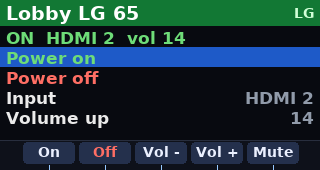
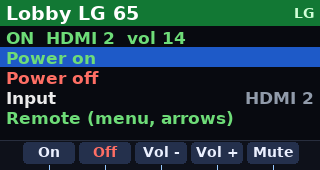
Display Control: TV remote screen (arrows, OK, Back, Home, Menu, Input, Exit)
LG via the webOS pointer input socket, Samsung remote keys, Sony IRCC
codes from getRemoteControllerInfo, Roku ECP keypresses.

Claude-Session: https://claude.ai/code/session_01GkgDxcWYarq6mnGrjPFuqJ

Changed region(s): [[0.0, 0.6471, 0.75, 0.7647], [0.9062, 0.6471, 1.0, 0.7353]]

diff --git a/display-control/tntdisp/app.py b/display-control/tntdisp/app.py
@@ -316,6 +316,8 @@ class DisplayScreen(List):
                ("Power off", lambda: app.do(d, "off", label="Power off"), "", L.BAD)]
         if "input" in caps:
             out.append(("Input", lambda: choose_input(app, d), lambda: str(st.get("input") or "")[:12]))
+        if "remote" in caps:
+            out.append(("Remote (menu, arrows)", lambda: app.push(RemoteScreen(app, d)), "", L.OK))
         if "volume" in caps:
             out.append(("Volume up", lambda: app.do(d, "vol", 1, "Volume up"),
                         lambda: "" if st.get("volume") is None else str(st["volume"])))
@@ -353,6 +355,77 @@ class DisplayScreen(List):
         if now > self.next_poll and self.d.id not in self.app.busy:
             self.next_poll = now + 10
             threading.Thread(target=self.app.poll, args=(self.d,), daemon=True).start()
+
+
+class RemoteScreen(Screen):
+    """The TV's remote: arrows (F/X/Z/C or the arrow keys), OK, and the menu
+    buttons on keys 4-8. Presses go out in order on one connection."""
+    help = ("Arrow keys or F X Z C move on the TV, OK selects. DEL is the TV's Back button. "
+            "4 Home, 5 Back, 6 Menu (TV settings), 7 Input list, 8 Exit. ESC leaves the remote; "
+            "hold ESC for HOME.")
+    LABEL = {"up": "↑", "down": "↓", "left": "←", "right": "→", "ok": "OK"}
+
+    def __init__(self, app, d: Display):
+        super().__init__(app)
+        self.title, self.d = f"Remote: {d.name}", d
+        self.drv = DRIVERS[d.kind](d)
+        self.q: list[str] = []
+        self.cv = threading.Condition()
+        self.alive = True
+        self.last = ("Ready", L.DIM)
+        threading.Thread(target=self._worker, daemon=True).start()
+
+    def _worker(self):
+        while True:
+            with self.cv:
+                while self.alive and not self.q:
+                    self.cv.wait()
+                if not self.alive:
+                    break
+                b = self.q.pop(0)
+            try:
+                with ops.lock(self.d):
+                    self.drv.remote(b)
+                self.last = (f"Sent {self.LABEL.get(b, b.capitalize())}", L.OK)
+            except (DisplayError, OSError, ValueError, KeyError) as e:
+                self.last = (str(e) or e.__class__.__name__, L.BAD)
+                with self.cv:
+                    self.q.clear()
+            self.app.dirty = True
+        if hasattr(self.drv, "close_remote"):
+            self.drv.close_remote()
+
+    def press(self, b: str):
+        with self.cv:
+            if len(self.q) < 8:
+                self.q.append(b)
+            self.cv.notify()
+        self.last = (f"{self.LABEL.get(b, b.capitalize())}...", L.WARN)
+
+    def right(self):
+        return KIND_SHORT.get(self.d.kind, "")
+
+    def rows(self):
+        return [self.last, ("F ↑   X ↓   Z ←   C →", L.FG),
+                ("OK select    DEL back", L.FG), ("ESC leaves the remote", L.DIM)], None
+
+    def softkeys(self):
+        return [("Home", lambda: self.press("home")), ("Back", lambda: self.press("back")),
+                ("Menu", lambda: self.press("menu")), ("Input", lambda: self.press("source")),
+                ("Exit", lambda: self.press("exit"))]
+
+    def key(self, k):
+        if k.name in ("up", "down", "left", "right"):
+            self.press(k.name)
+        elif k.name == "enter":
+            self.press("ok")
+        elif k.name == "backspace":
+            self.press("back")
+        elif k.name == "esc":
+            with self.cv:
+                self.alive = False
+                self.cv.notify()
+            self.app.pop(self)
 
 
 class Pick(List):

diff --git a/display-control/tests/test_basic.py b/display-control/tests/test_basic.py
@@ -220,6 +220,12 @@ class SonyRoku(unittest.TestCase):
         self.assertEqual(Handler.calls[-1][1], "/keypress/PowerOn")
         r.set_input("launch:tvinput.hdmi1")
         self.assertEqual(Handler.calls[-1][1], "/launch/tvinput.hdmi1")
+        r.remote("ok")
+        self.assertEqual(Handler.calls[-1][1], "/keypress/Select")
+        from tntdisp.base import REMOTE_BUTTONS
+        from tntdisp.samsung import Samsung
+        for drv in (Roku, Samsung, Sony, LGWebOS):
+            self.assertTrue(set(REMOTE_BUTTONS) <= set(drv.REMOTE), drv)
 
 
 # ---- fake LG webOS (plain WebSocket on port 3000 style) --------------------
@@ -255,7 +261,11 @@ def ws_server(handler):
             d = b""
             while len(d) < n:
                 d += c.recv(n - len(d))
-            return json.loads(bytes(b ^ m[i % 4] for i, b in enumerate(d)))
+            t = bytes(b ^ m[i % 4] for i, b in enumerate(d)).decode()
+            try:
+                return json.loads(t)
+            except ValueError:
+                return {"type": "raw", "text": t}
 
         def send(o):
             d = json.dumps(o).encode()
@@ -280,6 +290,8 @@ class LGTest(unittest.TestCase):
 
         def tv(m):
             seen.append(m)
+            if m["type"] == "raw":
+                return []
             if m["type"] == "register":
                 if m["payload"].get("client-key") == "goodkey":
                     return [{"type": "registered", "id": m["id"], "payload": {"client-key": "goodkey"}}]
@@ -292,6 +304,8 @@ class LGTest(unittest.TestCase):
                 pl.update(state="Active")
             if uri.endswith("getForegroundAppInfo"):
                 pl.update(appId="com.webos.app.hdmi2")
+            if uri.endswith("getPointerInputSocket"):
+                pl.update(socketPath=f"ws://127.0.0.1:{port}/resources/abc/netinput.pointer.sock")
             if uri.endswith("getExternalInputList"):
                 pl.update(devices=[{"id": "HDMI_1", "label": "HDMI 1"}, {"id": "HDMI_2", "label": "Laptop"}])
             return [{"type": "event", "id": "other", "payload": {}}, {"type": "response", "id": m["id"], "payload": pl}]
@@ -312,6 +326,13 @@ class LGTest(unittest.TestCase):
             self.assertEqual(lg.mute(), "Muted")
             self.assertEqual(seen[-1]["payload"], {"mute": True})
             self.assertEqual(lg.message("hi"), "Message shown")
+            lg.remote("down")
+            lg.remote("ok")
+            import time
+            time.sleep(0.3)
+            self.assertEqual([m["text"] for m in seen if m["type"] == "raw"],
+                             ["type:button\nname:DOWN\n\n", "type:button\nname:ENTER\n\n"])
+            lg.close_remote()
             lg.d.secret = "bad"
             with self.assertRaises(DisplayError):
                 lg.status()
@@ -372,7 +393,7 @@ class Misc(unittest.TestCase):
     def test_screens(self):
         from tntdisp.demo import render_screens
         files = render_screens(tempfile.mkdtemp())
-        self.assertEqual(len(files), 6)
+        self.assertEqual(len(files), 7)
 
 
 if __name__ == "__main__":

diff --git a/display-control/tntdisp/sony.py b/display-control/tntdisp/sony.py
@@ -17,7 +17,7 @@ from . import wol
 class Sony(Driver):
     kind = "sony"
     default_port = 80
-    caps = frozenset({"power", "input", "volume", "mute", "avmute", "picture", "info"})
+    caps = frozenset({"power", "input", "volume", "mute", "avmute", "picture", "info", "remote"})
 
     def rpc(self, service: str, method: str, params=None, version: str = "1.0"):
         body = json.dumps({"method": method, "id": 1, "params": [params] if params is not None else [],
@@ -119,6 +119,43 @@ class Sony(Driver):
     def set_picture(self, mode):
         self.rpc("video", "setPictureQualitySettings", {"settings": [{"target": "pictureMode", "value": mode}]})
         return f"Picture mode {mode}"
+
+    REMOTE = {"up": "Up", "down": "Down", "left": "Left", "right": "Right", "ok": "Confirm", "back": "Return",
+              "home": "Home", "menu": "ActionMenu", "exit": "Exit", "info": "Display", "source": "Input"}
+    FALLBACK = {"ActionMenu": "Options", "Confirm": "DpadCenter"}
+    _codes: dict = {}
+
+    def ircc_codes(self) -> dict:
+        key = self.d.host
+        if key not in Sony._codes:
+            res = self.rpc("system", "getRemoteControllerInfo")
+            lst = res[1] if isinstance(res, list) and len(res) > 1 else []
+            Sony._codes[key] = {c.get("name"): c.get("value") for c in lst if isinstance(c, dict)}
+        return Sony._codes[key]
+
+    def remote(self, button):
+        codes = self.ircc_codes()
+        name = self.REMOTE[button]
+        code = codes.get(name) or codes.get(self.FALLBACK.get(name, ""))
+        if not code:
+            raise DisplayError(f"TV has no {name} button over IP")
+        body = ('<?xml version="1.0"?><s:Envelope xmlns:s="http://schemas.xmlsoap.org/soap/envelope/" '
+                's:encodingStyle="http://schemas.xmlsoap.org/soap/encoding/"><s:Body>'
+                '<u:X_SendIRCC xmlns:u="urn:schemas-sony-com:service:IRCC:1"><IRCCCode>'
+                f'{code}</IRCCCode></u:X_SendIRCC></s:Body></s:Envelope>').encode()
+        req = urllib.request.Request(f"http://{self.d.host}:{self.port}/sony/IRCC", body, {
+            "Content-Type": 'text/xml; charset=UTF-8',
+            "SOAPACTION": '"urn:schemas-sony-com:service:IRCC:1#X_SendIRCC"'})
+        if self.d.secret:
+            req.add_header("X-Auth-PSK", self.d.secret)
+        try:
+            with urllib.request.urlopen(req, timeout=self.timeout) as r:
+                r.read()
+        except urllib.error.HTTPError as e:
+            raise DisplayError("Wrong or missing pre-shared key" if e.code in (401, 403) else f"TV error HTTP {e.code}")
+        except OSError as e:
+            raise DisplayError(f"No answer from {self.d.host} ({e.__class__.__name__})")
+        return button
 
     def info(self):
         out = super().info()

diff --git a/display-control/tntdisp/lgwebos.py b/display-control/tntdisp/lgwebos.py
@@ -36,7 +36,7 @@ class LGWebOS(Driver):
     kind = "lg"
     default_port = 3001
     needs_pairing = True
-    caps = frozenset({"power", "input", "volume", "mute", "avmute", "message", "info"})
+    caps = frozenset({"power", "input", "volume", "mute", "avmute", "message", "info", "remote"})
 
     def _connect(self, allow_prompt: bool = False, wait: float = 60.0) -> WebSocket:
         tls = self.port != 3000
@@ -189,6 +189,40 @@ class LGWebOS(Driver):
         uri = "turnOffScreen" if on else "turnOnScreen"
         self.call(f"ssap://com.webos.service.tvpower/power/{uri}", {"standbyMode": "active"})
         return "Screen off (TV still on)" if on else "Screen back on"
+
+    REMOTE = {"up": "UP", "down": "DOWN", "left": "LEFT", "right": "RIGHT", "ok": "ENTER", "back": "BACK",
+              "home": "HOME", "menu": "MENU", "exit": "EXIT", "info": "INFO", "source": "INPUT_HUB"}
+
+    def remote(self, button):
+        """Buttons go over the TV's pointer socket; it is kept open between
+        presses (see close_remote)."""
+        name = self.REMOTE[button]
+        for attempt in (0, 1):
+            ws = getattr(self, "_pointer", None)
+            if ws is None:
+                path = self.call("ssap://com.webos.service.networkinput/getPointerInputSocket").get("socketPath", "")
+                if "://" not in path:
+                    raise DisplayError("TV gave no remote socket")
+                tls = path.startswith("wss")
+                rest = path.split("://", 1)[1]
+                hostport, _, sub = rest.partition("/")
+                port = int(hostport.rsplit(":", 1)[1]) if ":" in hostport else (3001 if tls else 3000)
+                ws = WebSocket(self.d.host, port, "/" + sub, tls=tls, timeout=self.timeout)
+                self._pointer = ws
+            try:
+                ws.send(f"type:button\nname:{name}\n\n")
+                return button
+            except (DisplayError, OSError):
+                self.close_remote()
+                if attempt:
+                    raise DisplayError("TV remote connection lost")
+        return button
+
+    def close_remote(self):
+        ws = getattr(self, "_pointer", None)
+        self._pointer = None
+        if ws:
+            ws.close()
 
     def message(self, text):
         self.call("ssap://system.notifications/createToast", {"message": text[:60]})

diff --git a/display-control/tntdisp/base.py b/display-control/tntdisp/base.py
@@ -12,6 +12,7 @@ caps (what the UI offers for this display):
   picture  picture modes
   message  show a short message on the screen
   info     model, hours, errors ...
+  remote   menu navigation: up down left right ok back home menu exit info source
 """
 from __future__ import annotations
 
@@ -56,6 +57,9 @@ KIND_NAMES = {
 KIND_SHORT = {"pjlink": "PJL", "lg": "LG", "samsung": "SAM", "sony": "SONY", "roku": "ROKU"}
 SECRET_LABEL = {"pjlink": "PJLink password", "sony": "Pre-shared key", "lg": "Client key",
                 "samsung": "Token"}
+
+
+REMOTE_BUTTONS = ("up", "down", "left", "right", "ok", "back", "home", "menu", "exit", "info", "source")
 
 
 class Driver:
@@ -110,6 +114,10 @@ class Driver:
 
     def info(self) -> list[tuple[str, str]]:
         return [("Type", KIND_NAMES.get(self.kind, self.kind)), ("Address", f"{self.d.host}:{self.port}")]
+
+    def remote(self, button: str) -> str:
+        """Press a remote button (see REMOTE_BUTTONS)."""
+        raise DisplayError("No remote control over IP")
 
     def pair(self) -> str:
         """Ask the TV to allow this device (LG / Samsung). Returns text; may

diff --git a/display-control/tntdisp/samsung.py b/display-control/tntdisp/samsung.py
@@ -24,7 +24,7 @@ class Samsung(Driver):
     kind = "samsung"
     default_port = 8002
     needs_pairing = True
-    caps = frozenset({"power", "input", "volume", "mute", "info"})
+    caps = frozenset({"power", "input", "volume", "mute", "info", "remote"})
 
     def api(self) -> dict:
         try:
@@ -112,6 +112,14 @@ class Samsung(Driver):
     def mute(self, on=None):
         self.keys("KEY_MUTE")       # Samsung only has a toggle
         return "Mute toggled"
+
+    REMOTE = {"up": "KEY_UP", "down": "KEY_DOWN", "left": "KEY_LEFT", "right": "KEY_RIGHT", "ok": "KEY_ENTER",
+              "back": "KEY_RETURN", "home": "KEY_HOME", "menu": "KEY_MENU", "exit": "KEY_EXIT",
+              "info": "KEY_INFO", "source": "KEY_SOURCE"}
+
+    def remote(self, button):
+        self.keys(self.REMOTE[button])
+        return button
 
     def info(self):
         out = super().info()

diff --git a/display-control/tntdisp/roku.py b/display-control/tntdisp/roku.py
@@ -21,7 +21,7 @@ FIXED_INPUTS = [("InputHDMI1", "HDMI 1"), ("InputHDMI2", "HDMI 2"), ("InputHDMI3
 class Roku(Driver):
     kind = "roku"
     default_port = 8060
-    caps = frozenset({"power", "input", "volume", "mute", "info"})
+    caps = frozenset({"power", "input", "volume", "mute", "info", "remote"})
 
     def _get(self, path: str) -> bytes:
         try:
@@ -111,6 +111,13 @@ class Roku(Driver):
     def mute(self, on=None):
         self.key("VolumeMute")
         return "Mute toggled"
+
+    REMOTE = {"up": "Up", "down": "Down", "left": "Left", "right": "Right", "ok": "Select", "back": "Back",
+              "home": "Home", "menu": "Info", "exit": "Home", "info": "Info", "source": "Home"}
+
+    def remote(self, button):
+        self.key(self.REMOTE[button])
+        return button
 
     def info(self):
         out = super().info()

diff --git a/display-control/tntdisp/demo.py b/display-control/tntdisp/demo.py
@@ -4,7 +4,7 @@ from __future__ import annotations
 import os
 
 from . import lcd as L
-from .app import App, DisplayScreen, Found, Home, Pick, RoomScreen, Rooms
+from .app import App, DisplayScreen, Found, Home, Pick, RemoteScreen, RoomScreen, Rooms
 from .base import Display
 
 
@@ -52,6 +52,10 @@ def render_screens(out_dir: str) -> list[str]:
     shot(Pick(app, "Input", [("HDMI_1", "HDMI 1"), ("HDMI_2", "HDMI 2 (Laptop)"), ("HDMI_3", "HDMI 3"),
                               ("HDMI_4", "HDMI 4")], lambda v: None, "HDMI_2"), "lcd_4.png", 1)
     shot(Rooms(app), "lcd_5.png")
+    rs = RemoteScreen(app, app.displays[2])
+    rs.last = ("Sent \u2192", L.OK)
+    shot(rs, "lcd_6.png")
+    rs.alive = False
     for f in files:
         print(f)
     return files

diff --git a/display-control/tntdisp/ops.py b/display-control/tntdisp/ops.py
@@ -51,6 +51,8 @@ def run(d: Display, cmd: str, arg=None):
             return drv.info()
         if cmd == "pair":
             return drv.pair()
+        if cmd == "remote":
+            return drv.remote(str(arg))
     raise DisplayError(f"Unknown command {cmd}")
 
 

diff --git a/display-control/README.md b/display-control/README.md
@@ -12,6 +12,10 @@ Package `tnt-display-control`, share code `TNTD`, Python package `tntdisp`
   /24 (4352, 3001, 8001/8002, 8060, 80), then identifies each hit.
 * **Per display**: power on/off, input list and switch, volume, mute,
   picture/AV mute, picture mode, on-screen message, info, Wake-on-LAN.
+* **Remote**: the TV's menu buttons: arrows (F/X/Z/C or the arrow keys), OK,
+  DEL = Back, and keys 4-8 Home, Back, Menu, Input, Exit. LG (pointer socket),
+  Samsung (remote keys), Sony (IRCC codes) and Roku (ECP keys). PJLink has no
+  menu navigation.
 * **Rooms**: displays with the same Room name form a group: All on, All off
   (asks first), Mute, Unmute, with a per-display result list.
 * Saved list in `~/.config/tnt-display-control/displays.json` (mode 600).
@@ -53,6 +57,7 @@ for HOME, Fn+H help. Number keys 4-8 (labels at the bottom):
 
 * Main list: Find, Rooms, On, Off (highlighted display), Refresh
 * Display: On, Off, Vol-, Vol+, Mute
+* Remote: Home, Back, Menu, Input, Exit
 * Room: All on, All off, Mute, Unmute
 * Found list: Add all, Rescan (key 8)
 
